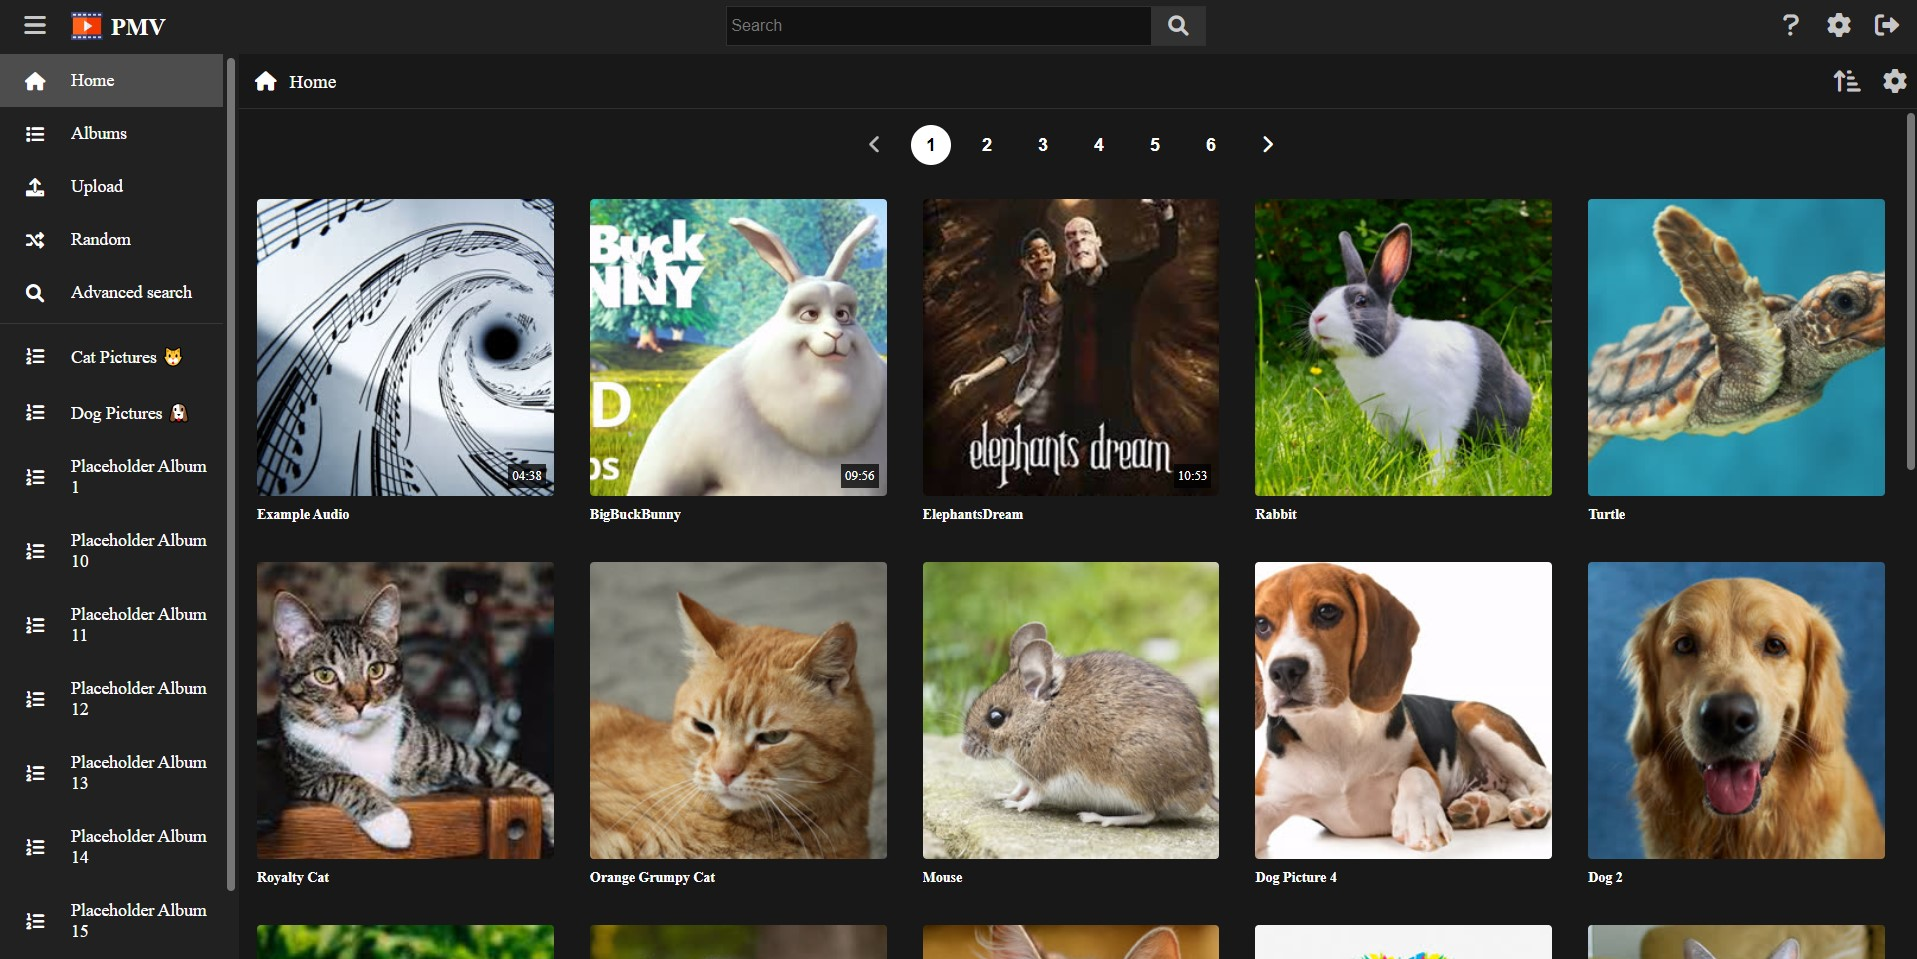
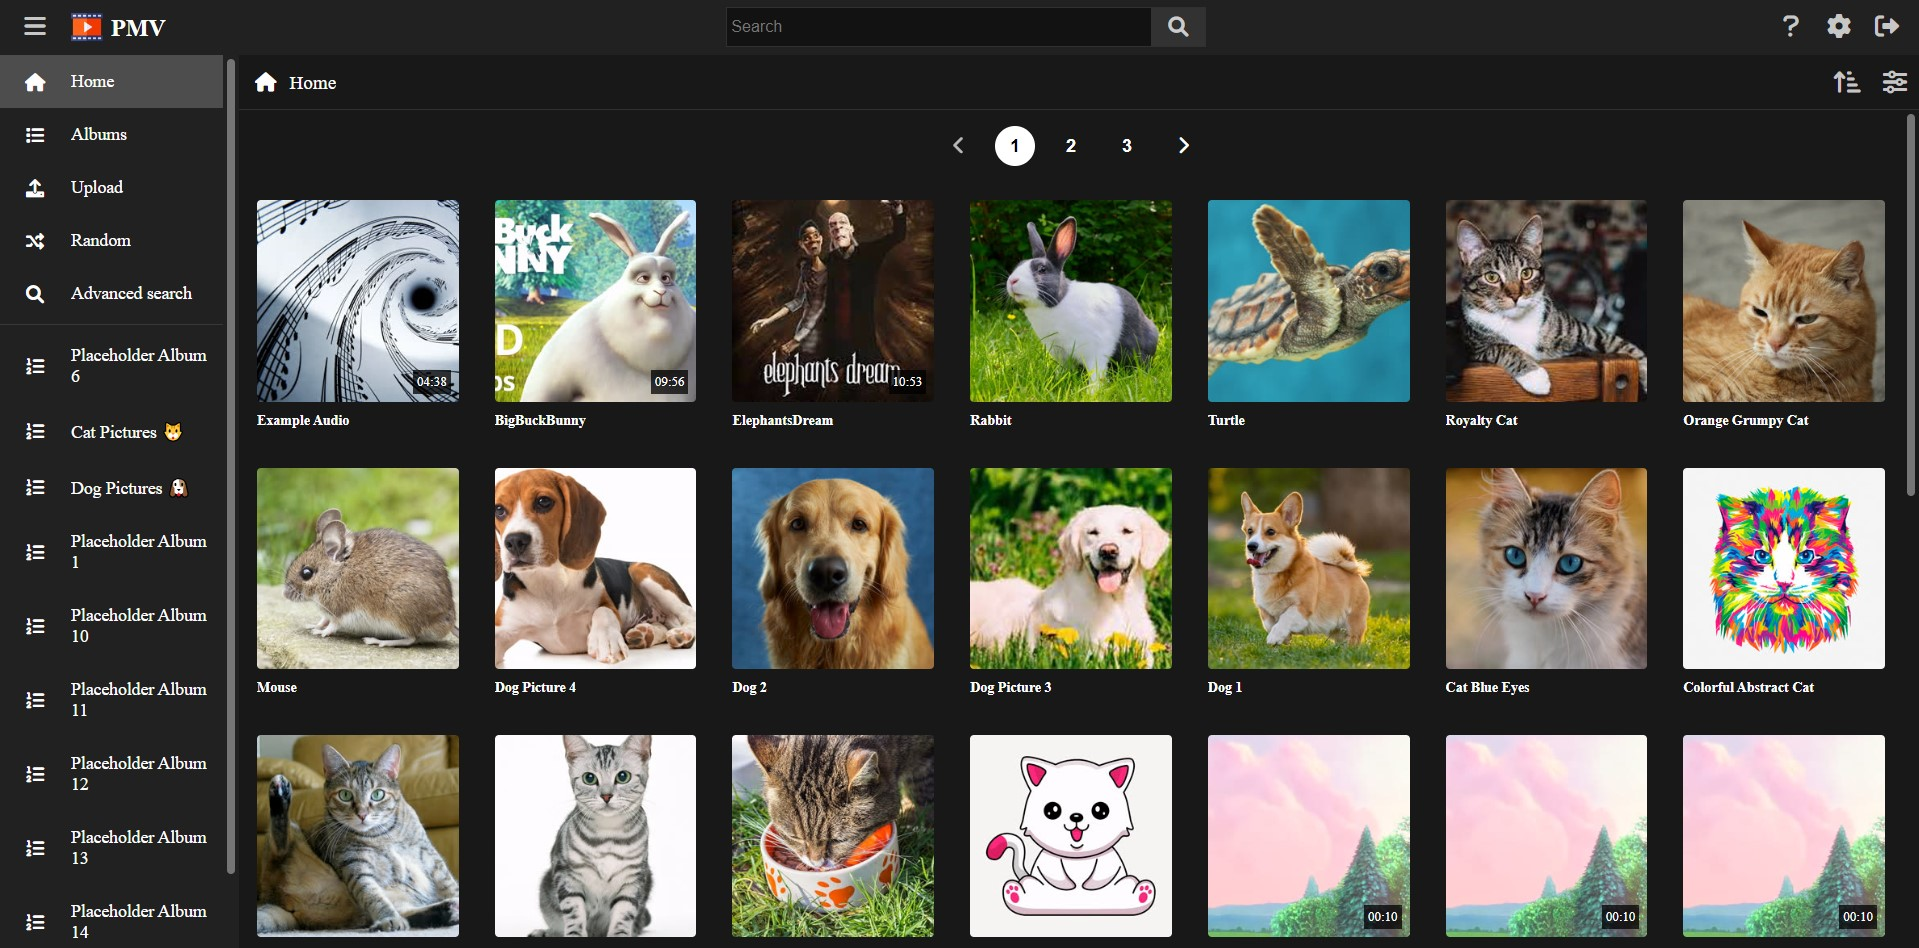
Update tutorials
closes #2

diff --git a/content/en/docs/Tutorials/01-setting-up-everything.md b/content/en/docs/Tutorials/01-setting-up-everything.md
@@ -72,7 +72,7 @@ By selecting your preferred language, PersonalMediaVault will save that preferen
 
 ### Change username
 
-Click in the **Change username** in order to change your username. This is the username you use to unlock the vault.
+Click in the **Change username** option in order to change your username. This is the username you use to unlock the vault.
 
 In order to change it, you must also provide your current password.
 
@@ -80,7 +80,7 @@ In order to change it, you must also provide your current password.
 
 ### Change password
 
-Click in the **Change password** in order to change your password. This is the password you use to unlock the vault.
+Click in the **Change password** option in order to change your password. This is the password you use to unlock the vault.
 
 In order to change it, you must also provide your current password.
 
@@ -89,6 +89,14 @@ Make sure to use a very strong password, using letters (uppercase and lowercase)
 Is it recommended to use a password manager, and making a backup of your password. If you lose your password, it will be impossible to recover the vault content, since it's encrypted with that password.
 
 ![Screenshot]({{< baseurl >}}images/en/change-password.jpg)
+
+### Invite
+
+Click in the **Invite** option in order to invite users or devices to access the vault.
+
+This feature will allow you to generate single-use codes that can be used to access the vault in read-only mode.
+
+![Screenshot]({{< baseurl >}}images/en/invite-code-modal.jpg)
 
 ### Administrate accounts
 

diff --git a/content/en/docs/Tutorials/06-navigating.md b/content/en/docs/Tutorials/06-navigating.md
@@ -22,6 +22,9 @@ You can also customize the page by clicking in the cog button at the top-right. 
  - The maximum number of items to load each page.
  - The size range of the thumbnails.
  - The number of items to try fit in a single row (may not be possible if the size of the thumbnails is too big or too small, try changing both until you get the sizes you like).
+ - The padding of the thumbnails
+ - The corner style of the thumbnails
+ - If you want to display or hide titles.
 
 ![Screenshot]({{< baseurl >}}images/en/page-config-modal.jpg)
 
@@ -31,7 +34,7 @@ In case you want to load random media files from your media vault, you can try t
 
 Each time you reload, a new seed is used, giving you a new set of random results.
 
-![Screenshot]({{< baseurl >}}images/en/home-page.jpg)
+![Screenshot]({{< baseurl >}}images/en/random-page.jpg)
 
 ## Fast search
 
